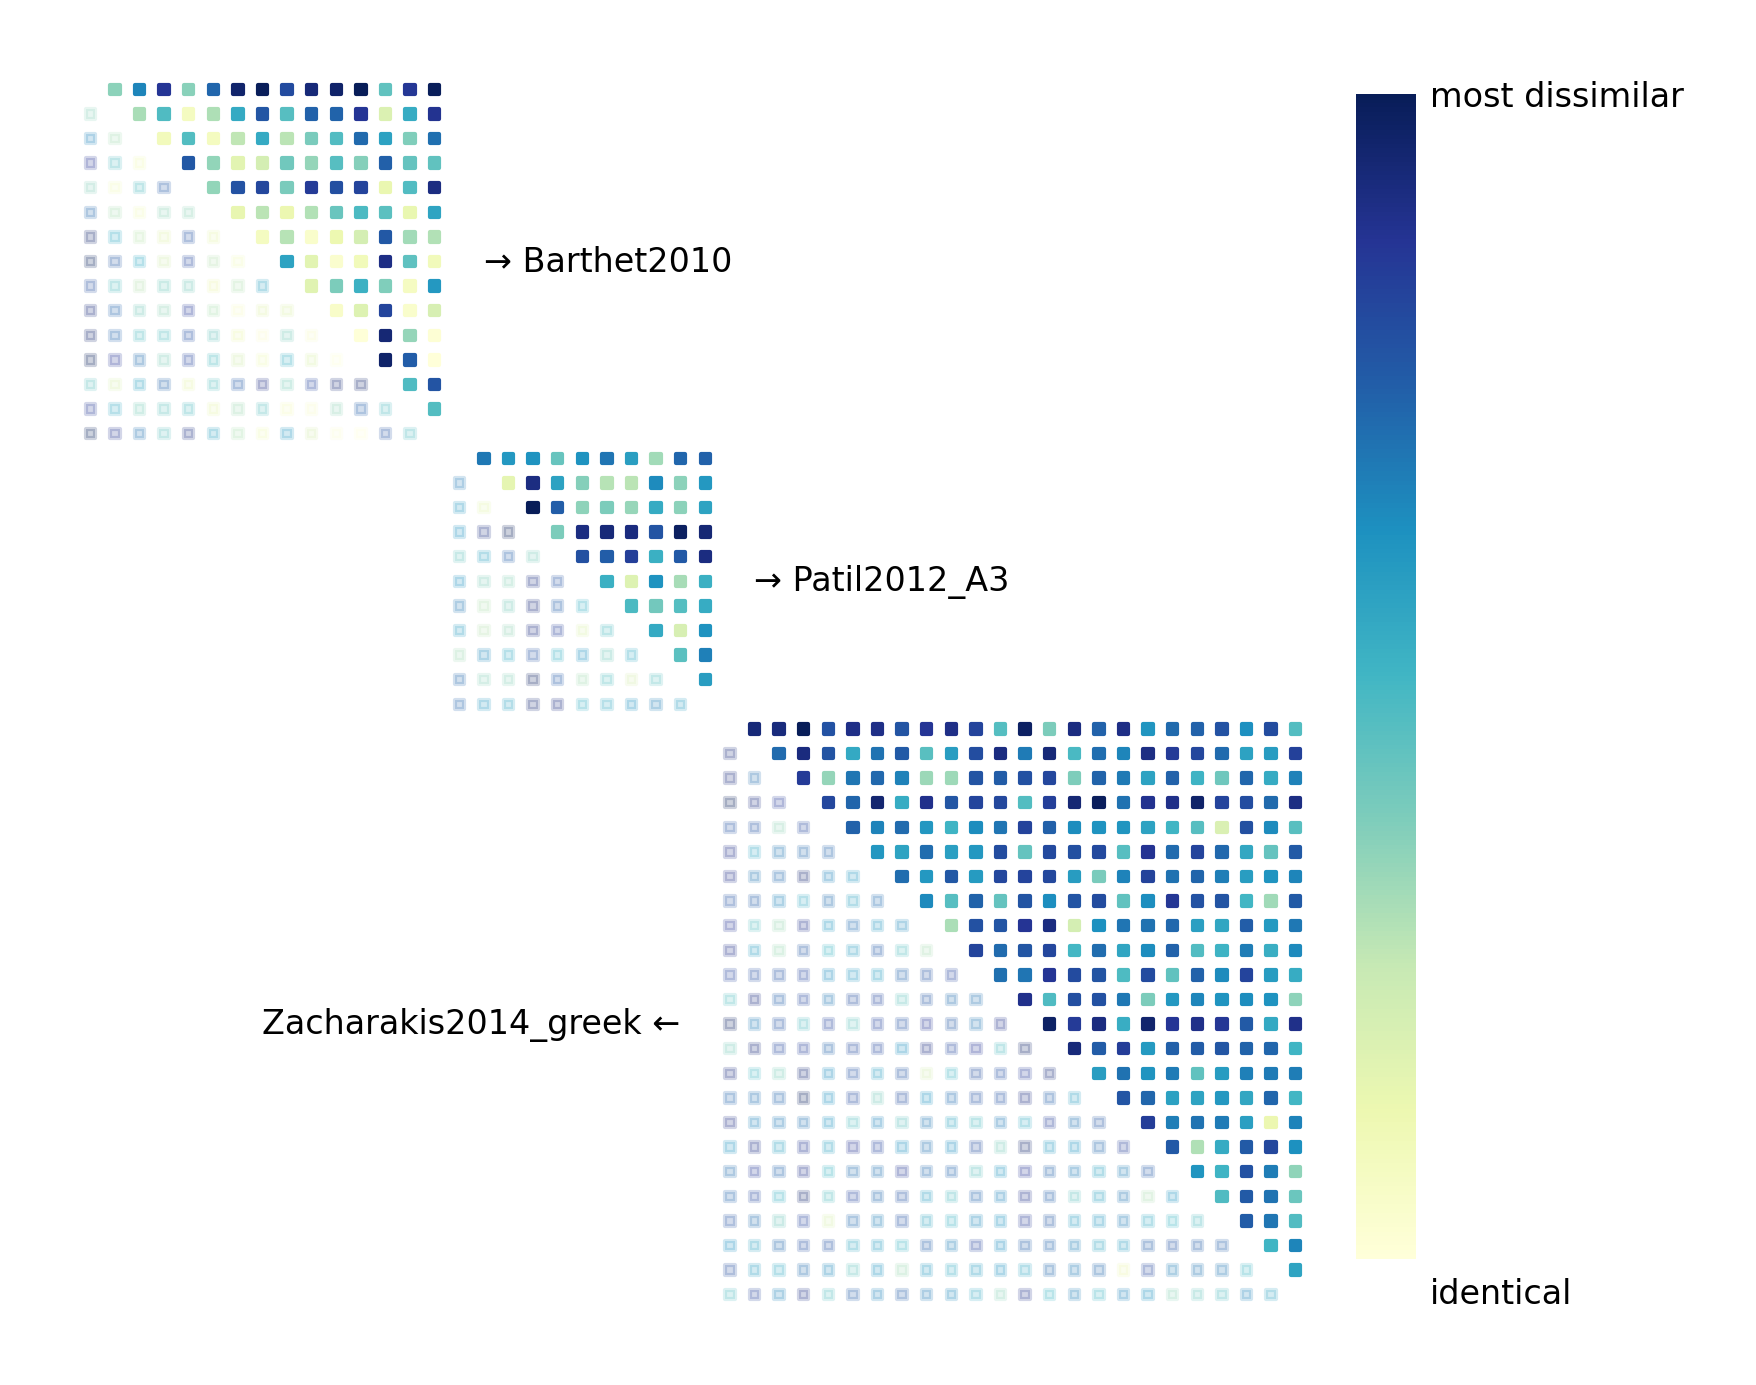
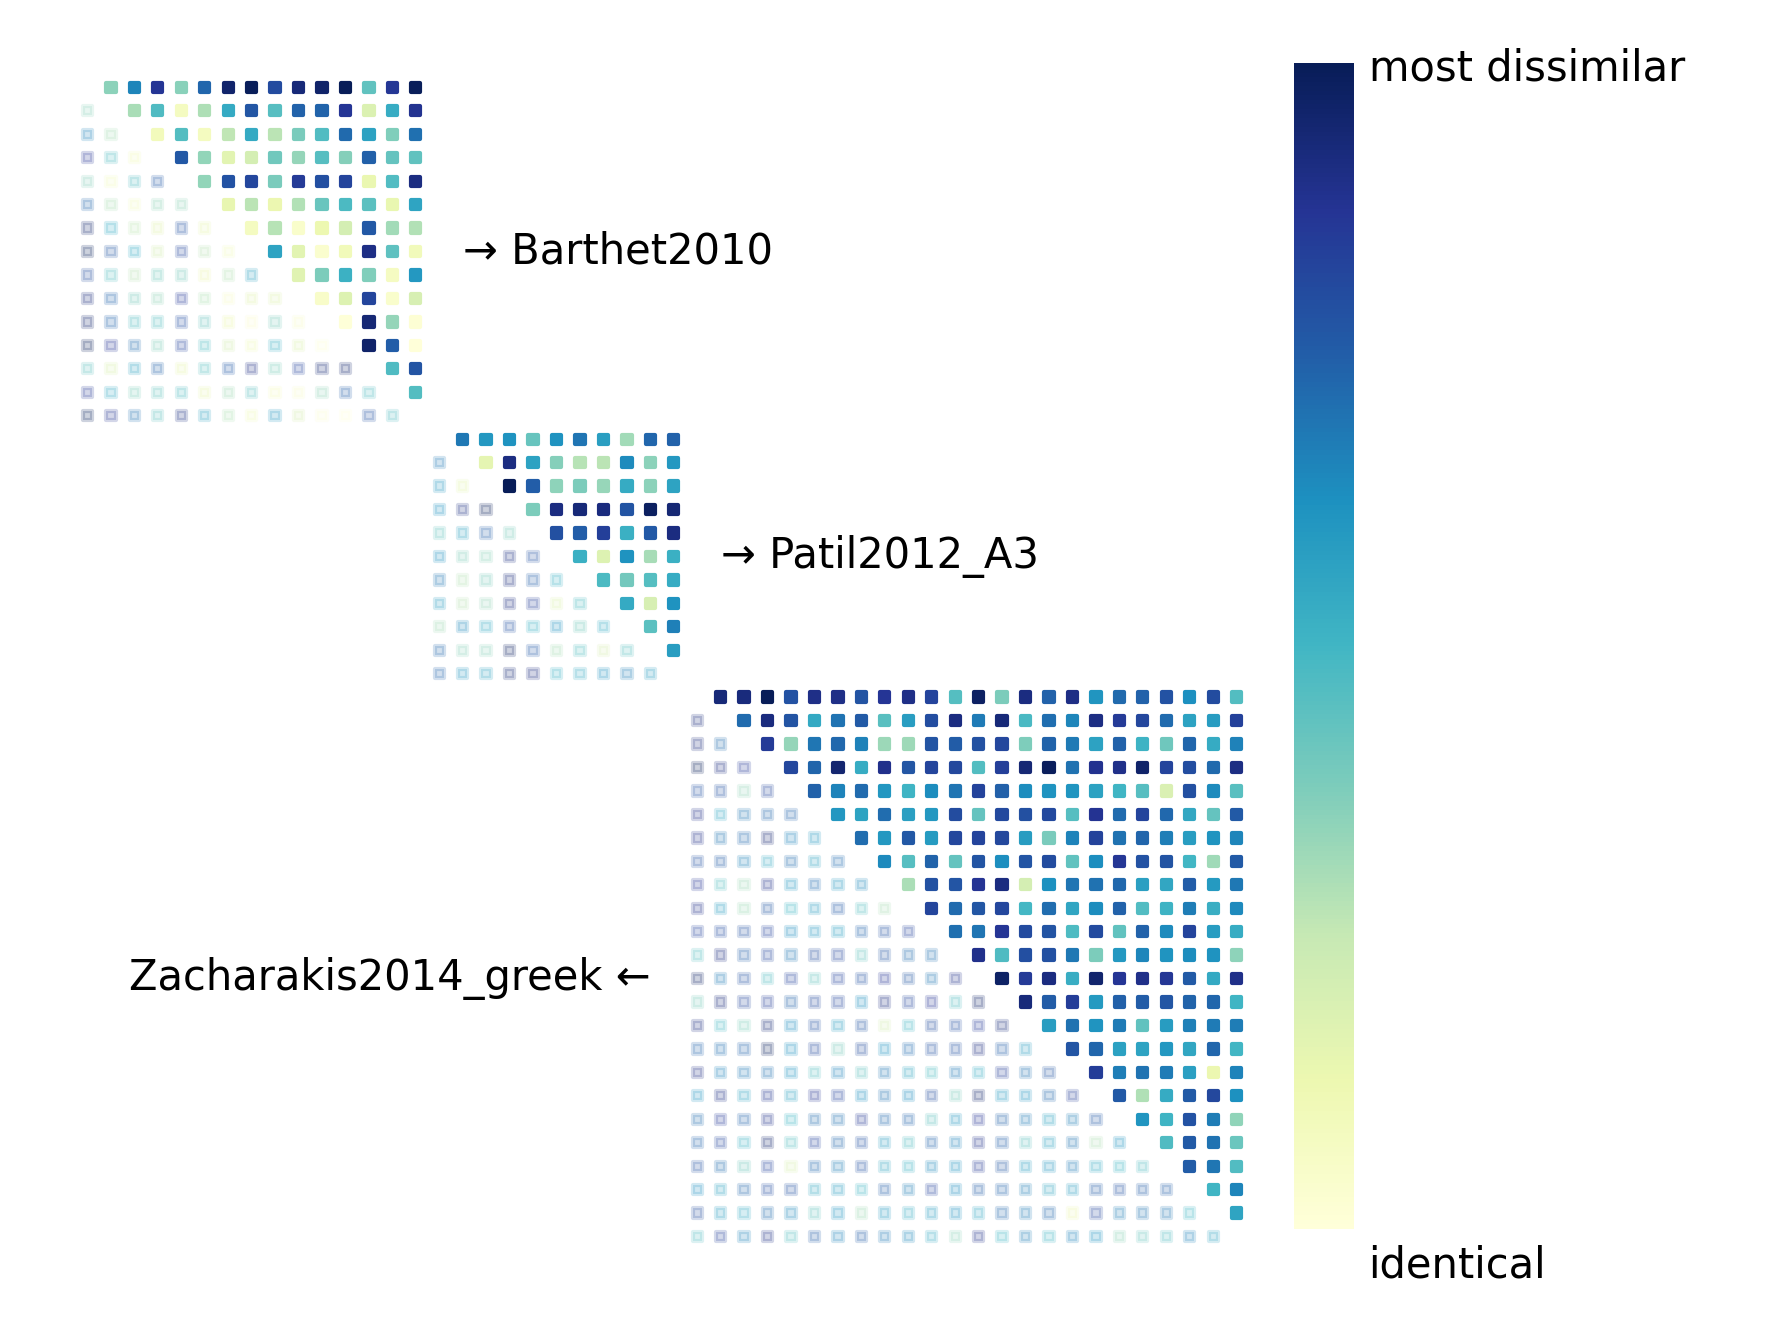
update font size

Changed region(s): [[0.0308, 0.031, 0.9533, 0.96]]

diff --git a/scripts/plot_true_dissim.py b/scripts/plot_true_dissim.py
@@ -38,7 +38,7 @@ plt.text(
     ha="left",
     va="center",
     rotation=0,
-    fontsize=8,
+    fontsize=10,
     color="black",
 )
 
@@ -51,7 +51,7 @@ plt.text(
     ha="left",
     va="center",
     rotation=0,
-    fontsize=8,
+    fontsize=10,
     color="black",
 )
 
@@ -64,7 +64,7 @@ plt.text(
     ha="right",
     va="center",
     rotation=0,
-    fontsize=8,
+    fontsize=10,
     color="black",
 )
 
@@ -72,7 +72,7 @@ cbar = plt.colorbar(scatter, pad=0.0, shrink=0.7, aspect=20)
 cbar.outline.set_visible(False)
 cbar.ax.set_yticks([0, 1])
 cbar.ax.set_yticklabels(["identical", "most dissimilar    "])
-cbar.ax.tick_params(labelsize=8, length=0)
+cbar.ax.tick_params(labelsize=10, length=0)
 
 plt.gca().set_aspect("equal")
 plt.gca().invert_yaxis()
